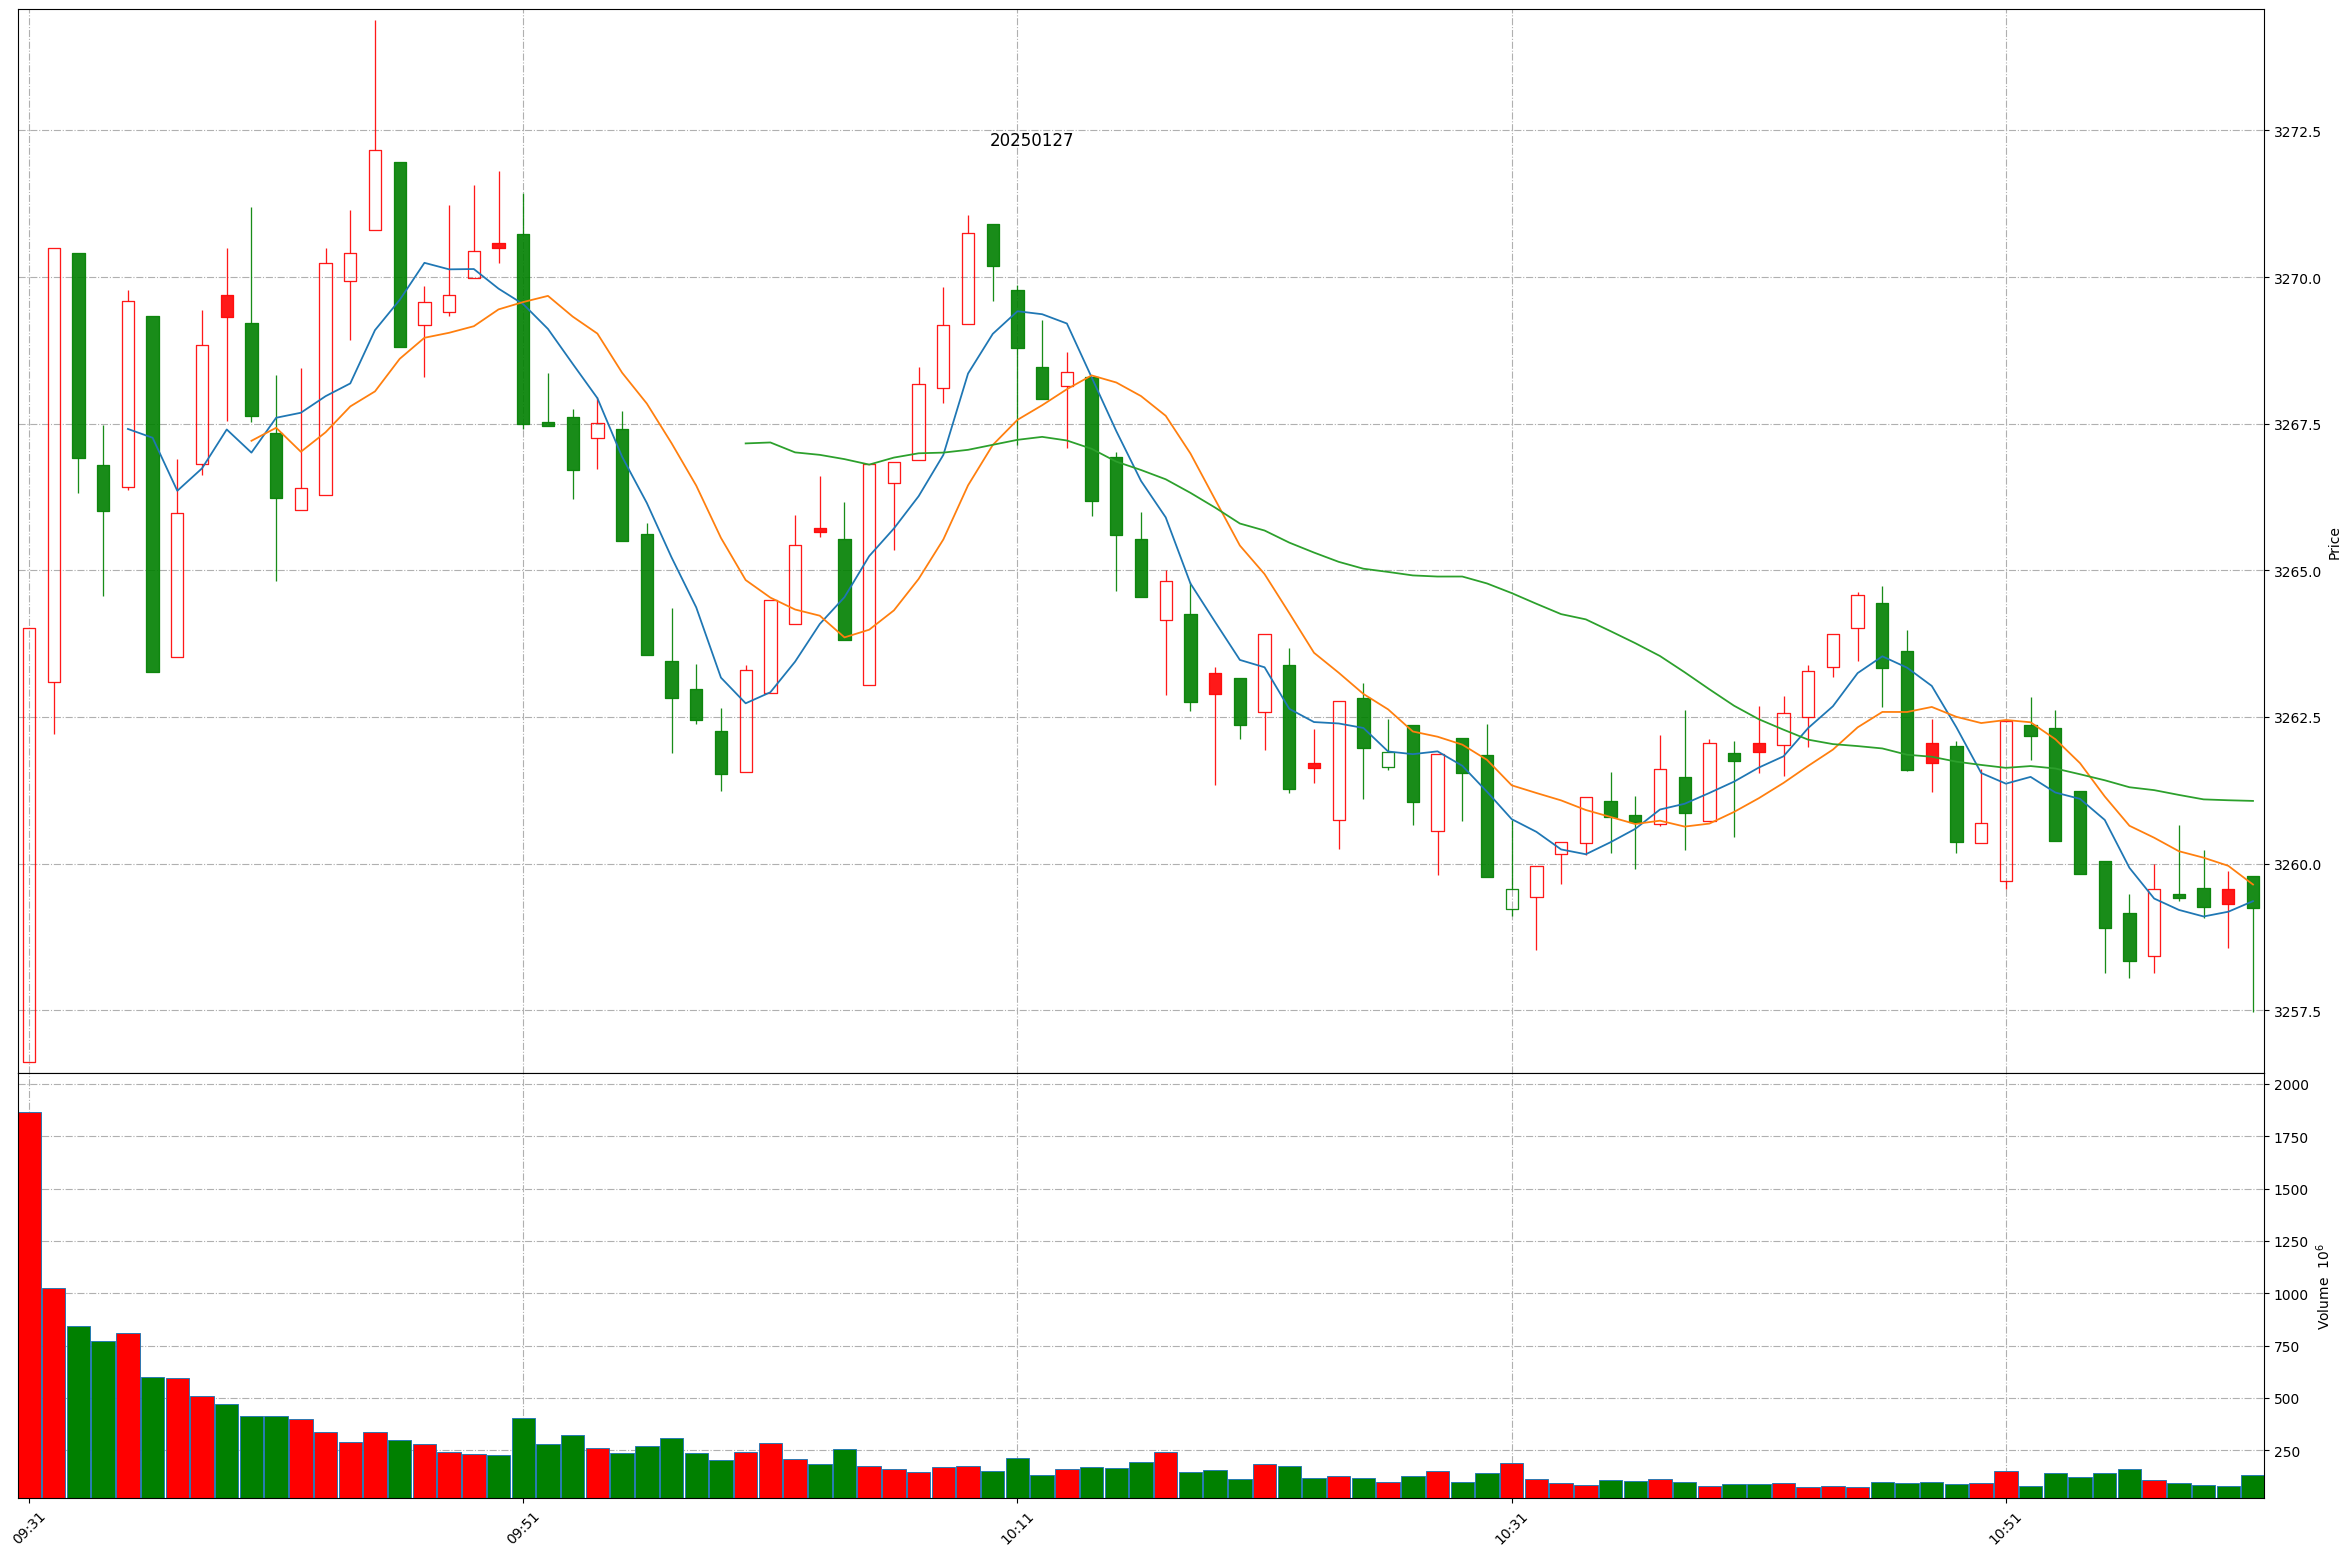
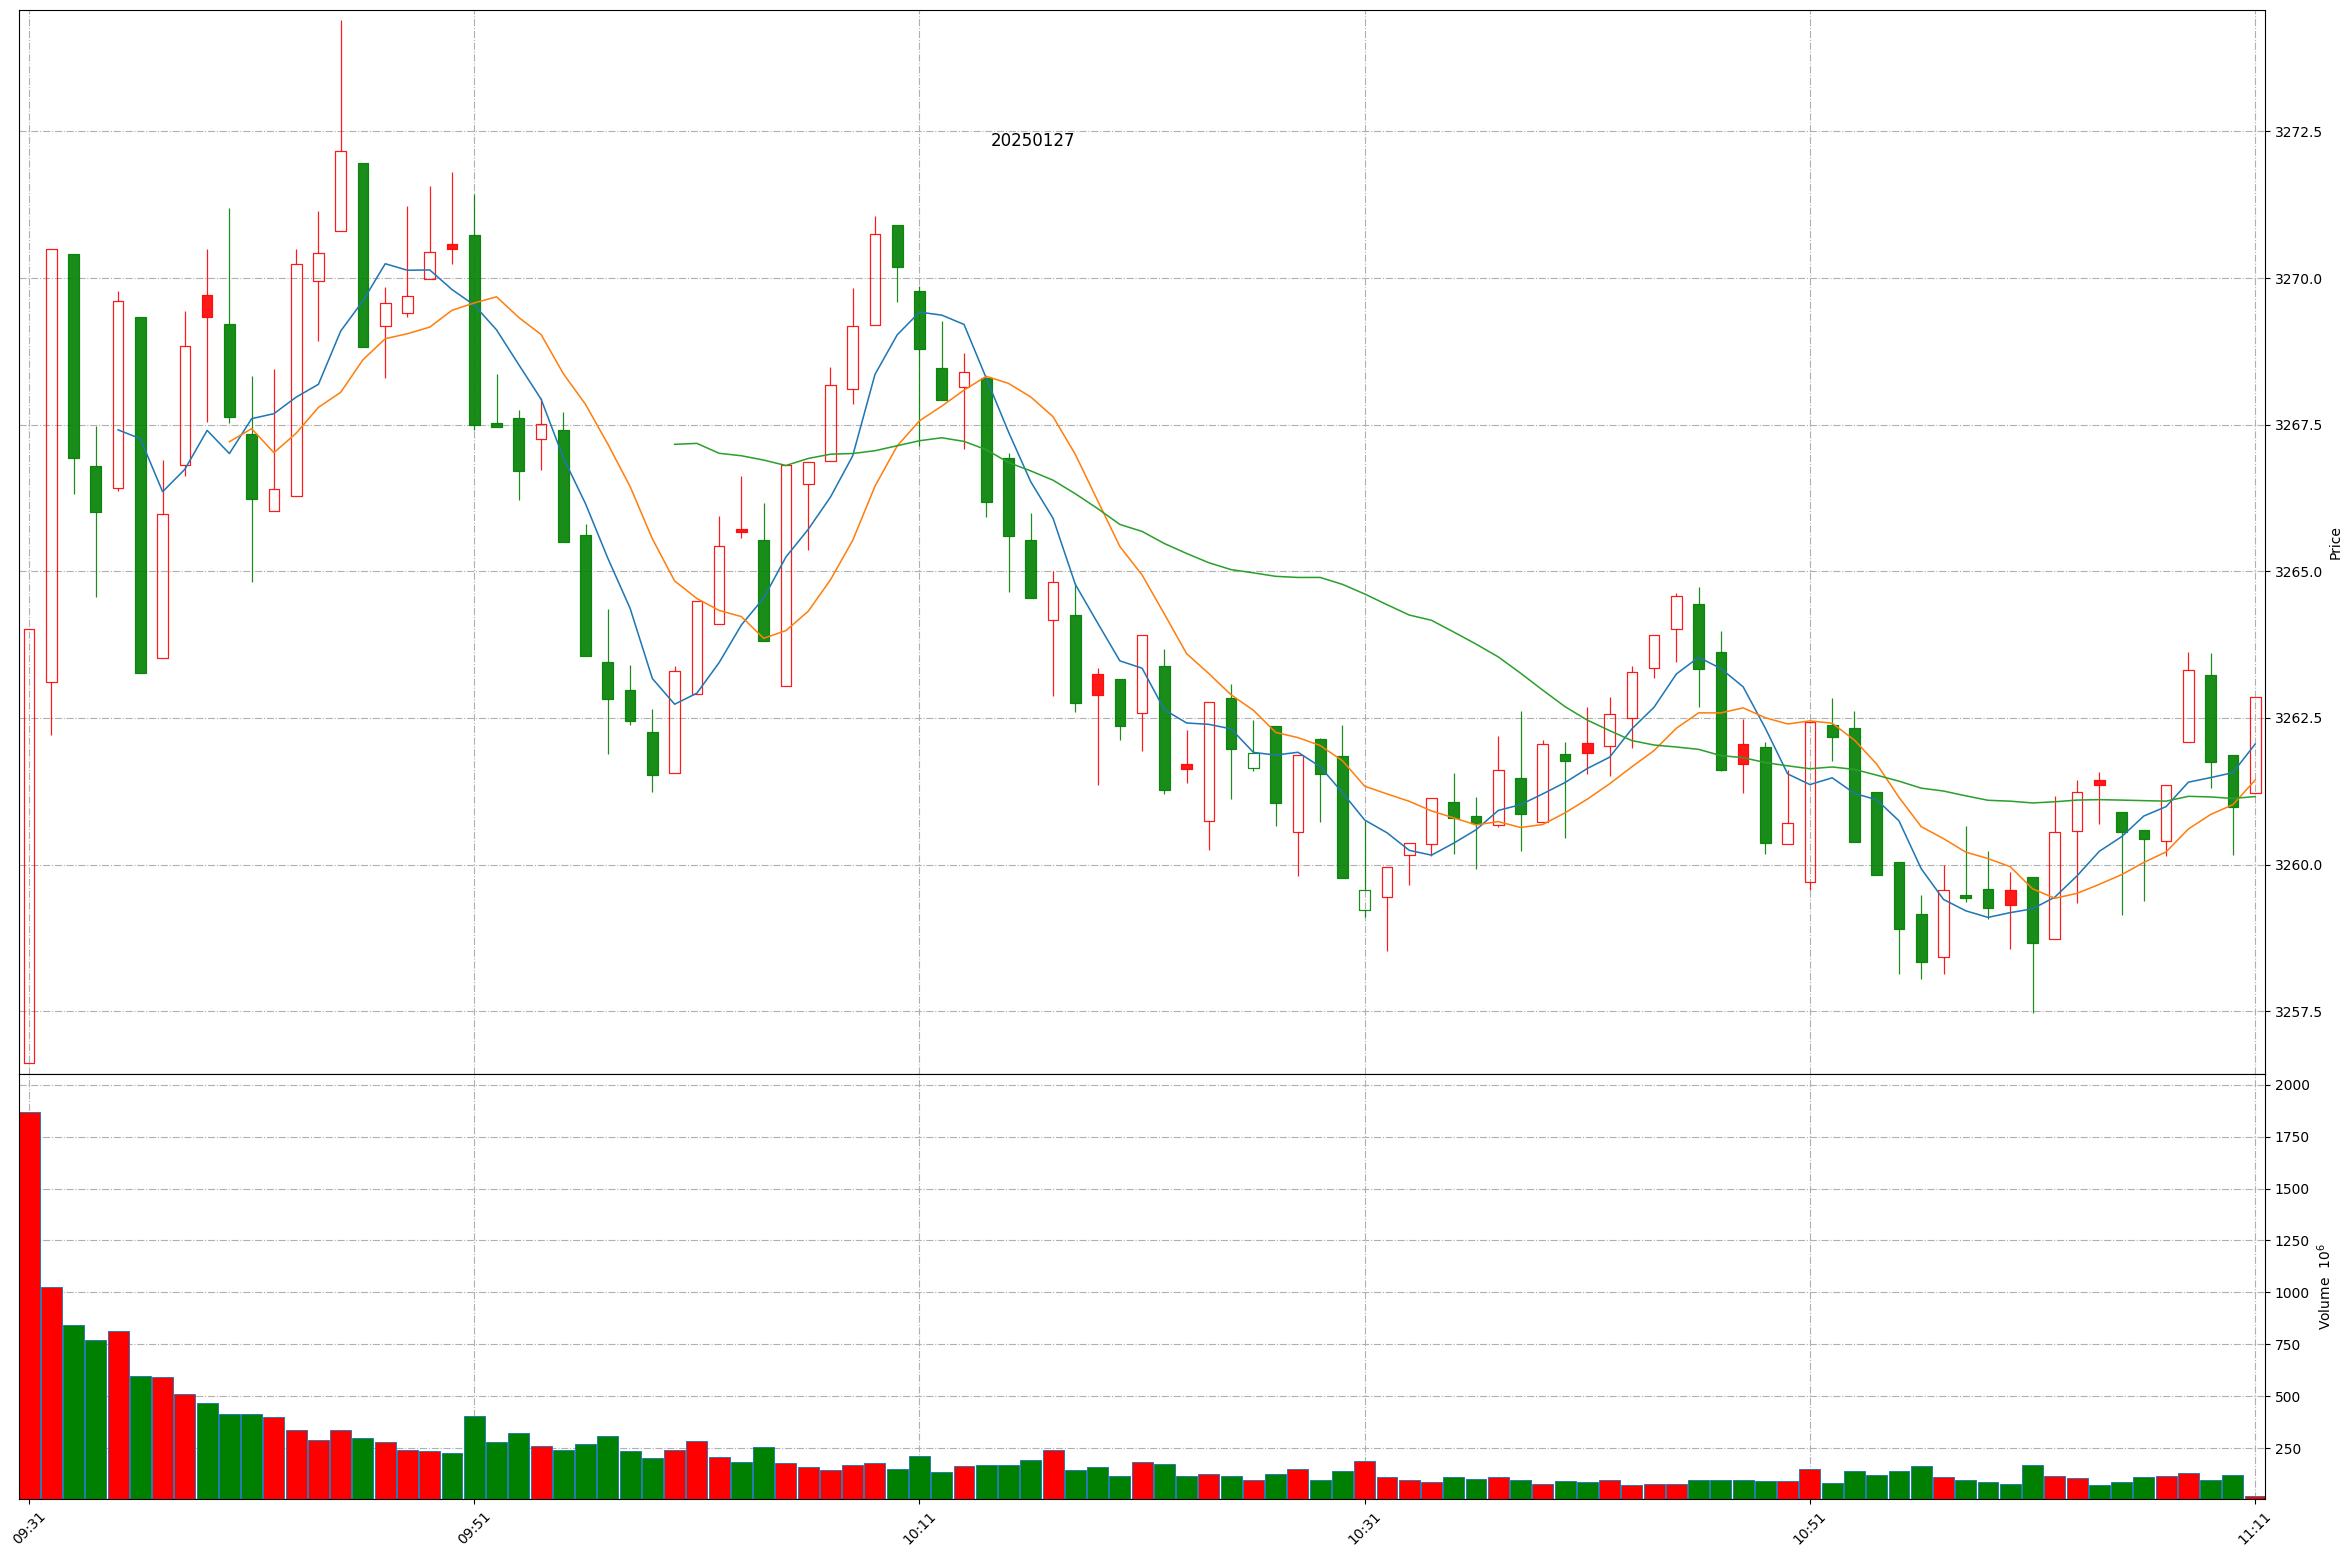
Github action update at 2025-01-27 11:10:25.

Changed region(s): [[0.0, 0.0925, 0.9626, 0.6787], [0.0, 0.8329, 0.9626, 0.9871], [0.9626, 0.8021, 0.9936, 0.8638]]

diff --git a/README.md b/README.md
@@ -1,11 +1,11 @@
 
 # Daily-A-share-market-quotes 每日 A 股指数（5min 更新）- 20250127
 
-### 上证指数 20250127 11:1
+### 上证指数 20250127 11:10
 ![](./fig/2025/1/20250127-sh000001.png)
 
-### 深证成指 20250127 11:1
+### 深证成指 20250127 11:10
 ![](./fig/2025/1/20250127-sz399001.png)
 
-### 北证50 20250127 11:1
+### 北证50 20250127 11:10
 ![](./fig/2025/1/20250127-bj899050.png)
